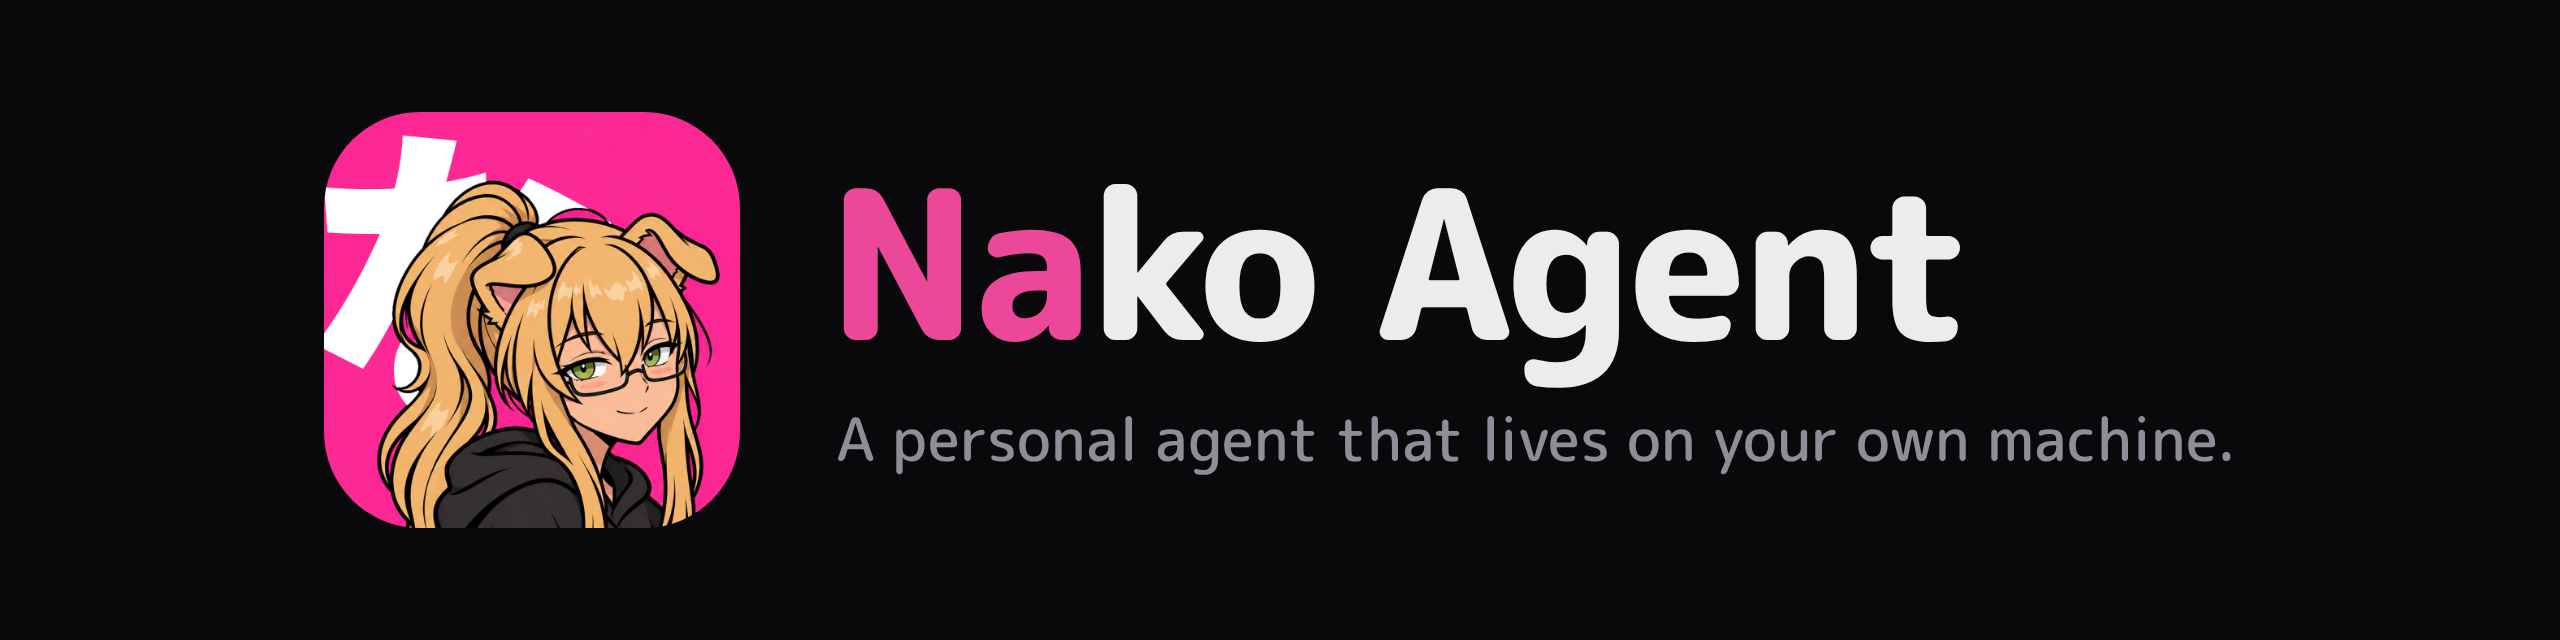
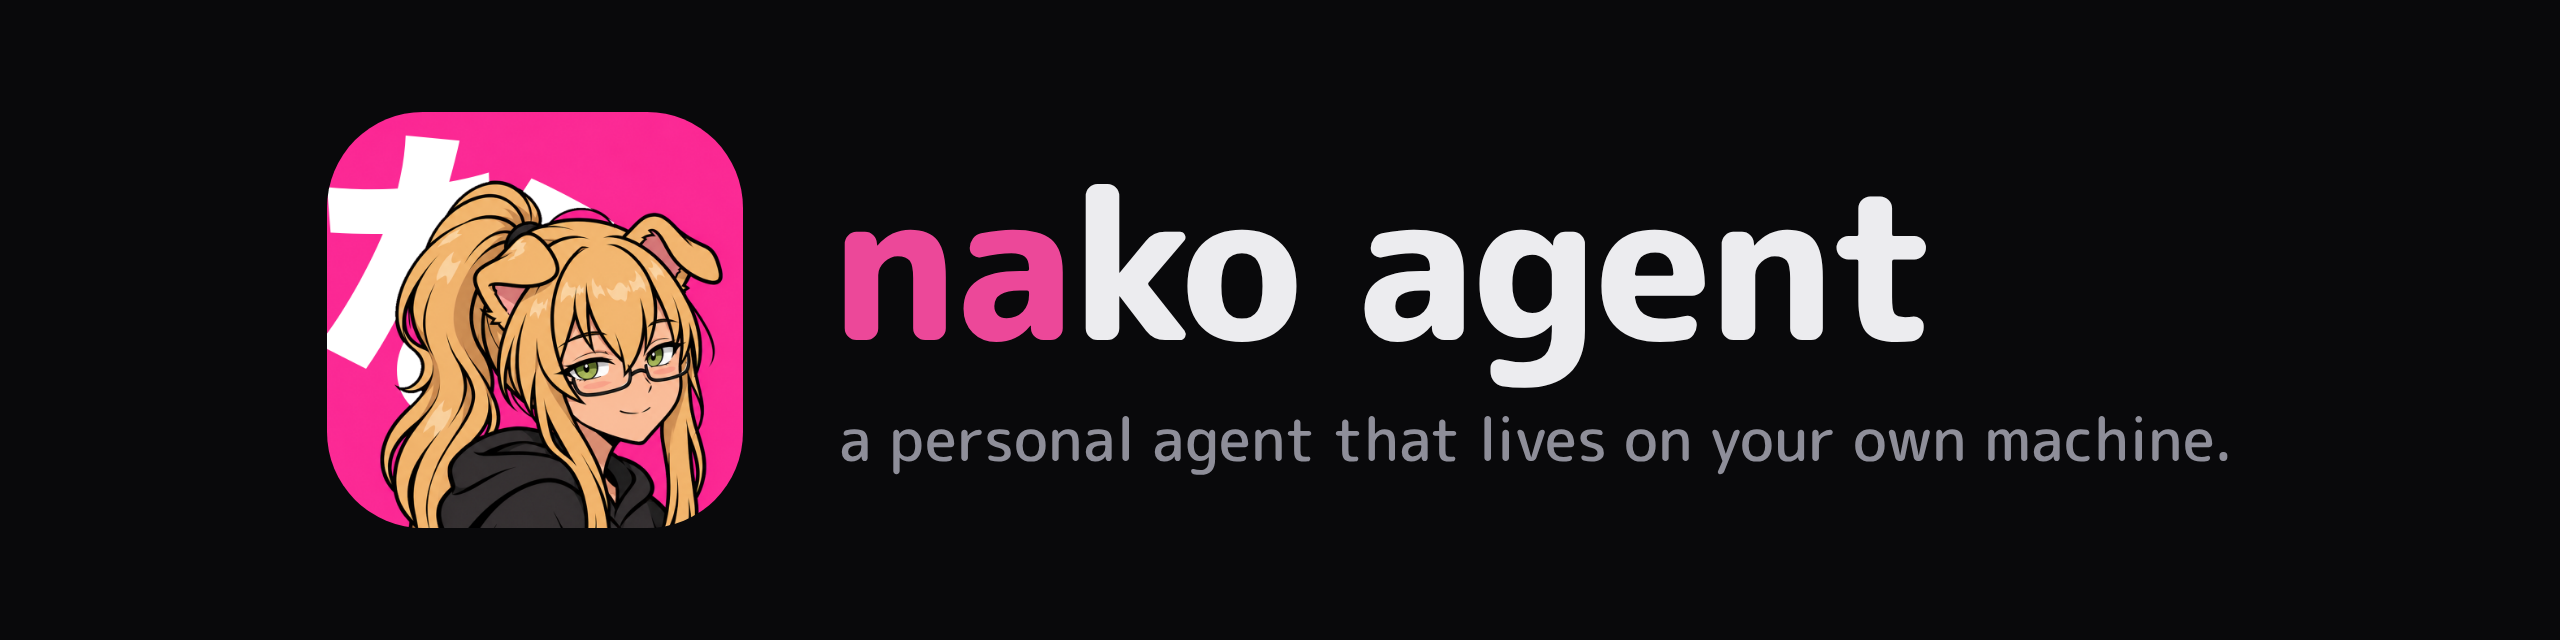
feat: main gets its own lowercase README
Upstream's README with the names swapped pointed badges and whole sections at
upstream's own sites. main now ships scripts/nako/main-readme.md as is, and
the banner is lowercase to match.

Changed region(s): [[0.3125, 0.2812, 0.7812, 0.625], [0.125, 0.2188, 0.2812, 0.8438], [0.3125, 0.6562, 0.875, 0.7188]]

diff --git a/scripts/nako/rebrand.py b/scripts/nako/rebrand.py
@@ -54,14 +54,7 @@ _UPSTREAM_PAGES_RE = re.compile(
 )
 _UPSTREAM_ORG_RE = re.compile(re.escape(_UPSTREAM_ORG), re.IGNORECASE)
 
-_README_TOP_LINE = f"A fork of {_UPSTREAM_BRAND_TITLE} Agent."
-_README_HEADER = (
-    f"{_README_TOP_LINE}\n\n"
-    f"This fork was created because model providers block {_UPSTREAM_BRAND_TITLE} Agent. "
-    "Nako-Agent is a personal rebranded and patched build that tracks upstream fixes "
-    "via a clean `patches` branch and an automated rebrand script (`scripts/nako/sync.py`).\n\n"
-    "---\n\n"
-)
+_README = Path(__file__).resolve().parent / "main-readme.md"  # main's README is ours, not upstream's renamed
 
 _GUARD_ENTRY = '    "no-upstream-brand": ["scripts/nako/check_no_upstream_brand.py"],\n'
 _GUARD_ANCHOR = '    "backend-imports": ["scripts/ci/check_backend_imports.py"],\n'
@@ -207,10 +200,7 @@ def _rewrite_contents(repo: Path, files: list[str]) -> int:
             continue
 
         if rel == "README.md":
-            body = text
-            if body.startswith(_README_HEADER):
-                body = body[len(_README_HEADER):]
-            new_text = _README_HEADER + _rebrand_text(body)
+            new_text = _README.read_text(encoding="utf-8")
         else:
             new_text = _rebrand_text(text, preserve_org=_is_license_file(rel))
 

diff --git a/scripts/nako/main-readme.md b/scripts/nako/main-readme.md
@@ -1,0 +1,83 @@
+<p align="center">
+  <img src="assets/banner.png" alt="nako agent" width="100%">
+</p>
+
+<p align="center">
+  <a href="https://nako.bot"><img src="https://img.shields.io/badge/nako.bot-ec4899?style=flat-square" alt="nako.bot"></a>
+  <a href="https://portal.nakode.moe/docs/"><img src="https://img.shields.io/badge/docs-18181c?style=flat-square" alt="docs"></a>
+  <a href="LICENSE"><img src="https://img.shields.io/badge/license-mit-18181c?style=flat-square" alt="license: mit"></a>
+</p>
+
+<h3 align="center">hi, i'm nako. i'm an agent that lives on your own machine.</h3>
+
+<p align="center">
+  i remember what you tell me, write down what i learn, and answer wherever you chat.
+</p>
+
+---
+
+## install
+
+**macos, linux, wsl**
+
+```bash
+curl -fsSL https://nako.bot/install.sh | bash
+```
+
+**windows (powershell)**
+
+```powershell
+iex (irm https://nako.bot/install.ps1)
+```
+
+then:
+
+```bash
+nako setup        # pick a model and set things up
+nako              # start chatting in the terminal
+nako gateway      # answer on discord, slack, telegram and more
+nako doctor       # check that everything works
+```
+
+full guides live in the [docs](https://portal.nakode.moe/docs/).
+
+## what she does
+
+| | |
+| --- | --- |
+| **remembers** | keeps notes about you and your setup, and searches her own past conversations. |
+| **learns** | writes a skill after a hard task and improves it the next time she uses it. |
+| **answers anywhere** | terminal, desktop app, discord, slack, telegram, whatsapp, signal: one agent behind all of them. |
+| **works unattended** | scheduled jobs in plain language, with results sent wherever you want them. |
+| **uses any model** | switch provider or model with `nako model`. no lock-in. |
+| **runs where you put her** | your laptop, a home server, a container or a remote box over ssh. |
+
+## what this fork adds
+
+nako agent is a patched fork of [hermes agent](https://github.com/NousResearch/hermes-agent). on top of upstream it carries:
+
+- **nako portal**: her own chat app for web, desktop and android, bundled in.
+- **agent secrets**: she can use a password or key without it ever appearing in the chat.
+- **bitwarden sign-in**: unlocks the vault headlessly and signs in with passkeys.
+- **model controls**: pick the model, reasoning effort and speed per chat.
+- **more ways to bring a model**: antigravity and claude subscription support.
+- **slack multiplayer**: behaves well in busy shared channels.
+
+## the rest of the suite
+
+| | |
+| --- | --- |
+| [nako portal](https://github.com/QuillDev/nako-portal) | her own chat app for web, desktop and android, signed in with a passkey. |
+| [nanime](https://github.com/QuillDev/Nanime) | a self-hosted anime library and streaming app that plays on any device. |
+| [nanotes](https://github.com/QuillDev/nanotes) | a floating markdown scratchpad that saves plain files. |
+| [nakode](https://github.com/QuillDev/nakode) | a terminal layer for running agent sessions. experimental. |
+
+## how the fork is built
+
+upstream moves fast, so this repo is generated instead of hand-merged. the [`nako-agent`](https://github.com/QuillDev/nako-agent/tree/nako-agent) branch holds a pinned upstream commit, a short stack of patch files, and the script that renames everything. `main` is rebuilt from those on every update. to change something, change a patch there; never edit `main` by hand.
+
+## credits and license
+
+built on [hermes agent](https://github.com/NousResearch/hermes-agent) by nous research. thank you to everyone who works on it.
+
+mit. see [license](LICENSE).

diff --git a/scripts/nako/README.md b/scripts/nako/README.md
@@ -8,6 +8,8 @@ To work on them, `apply` builds the files into a commit stack: the `patches` bra
 
 The rebrand also swaps upstream's logo for ours (`brand_art.py`, needs Pillow): every committed icon is redrawn from `art/icon.png` and the README banner from `art/banner.png`. To change the logo, replace those two files and rebuild `main`.
 
+`main`'s README is `main-readme.md`, copied in whole. Upstream's README is not used.
+
 ## Changing patches
 
 `work/` is an ordinary checkout of the code with the patches applied as commits. Edit, run and test there; its `AGENTS.md` says how. Everything in it keeps upstream's names, and patches must too: the rename to Nako happens only when `main` is built.
